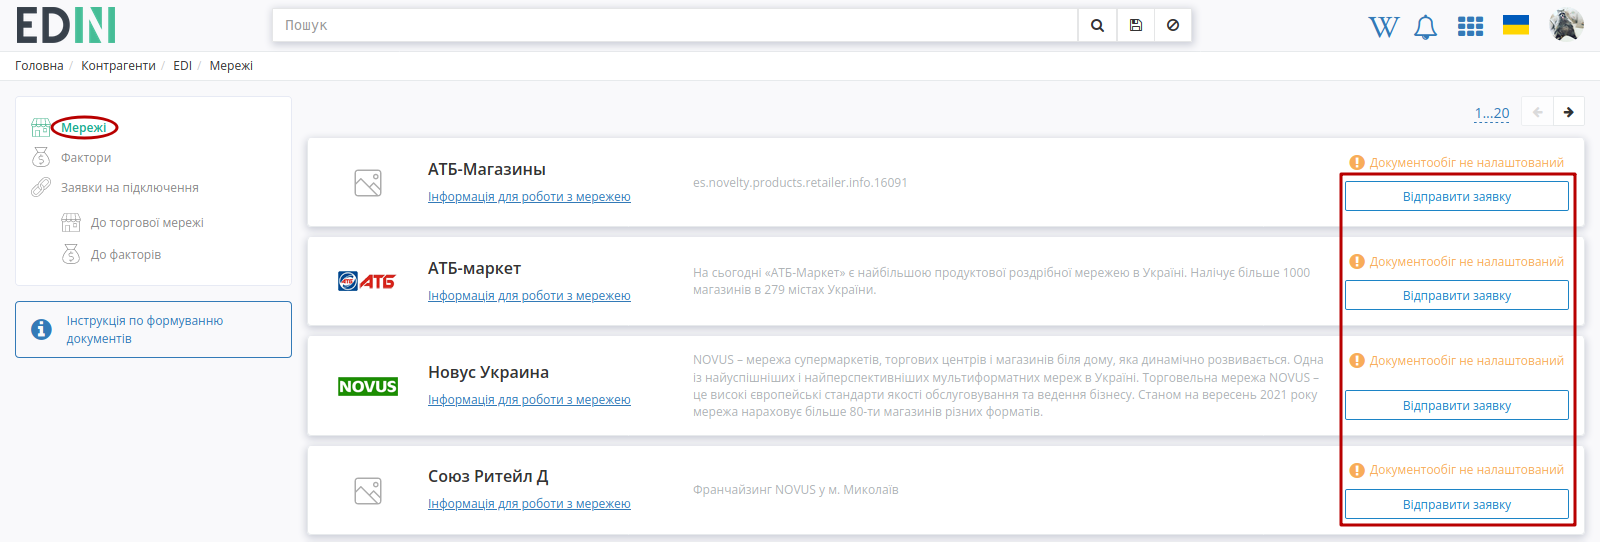
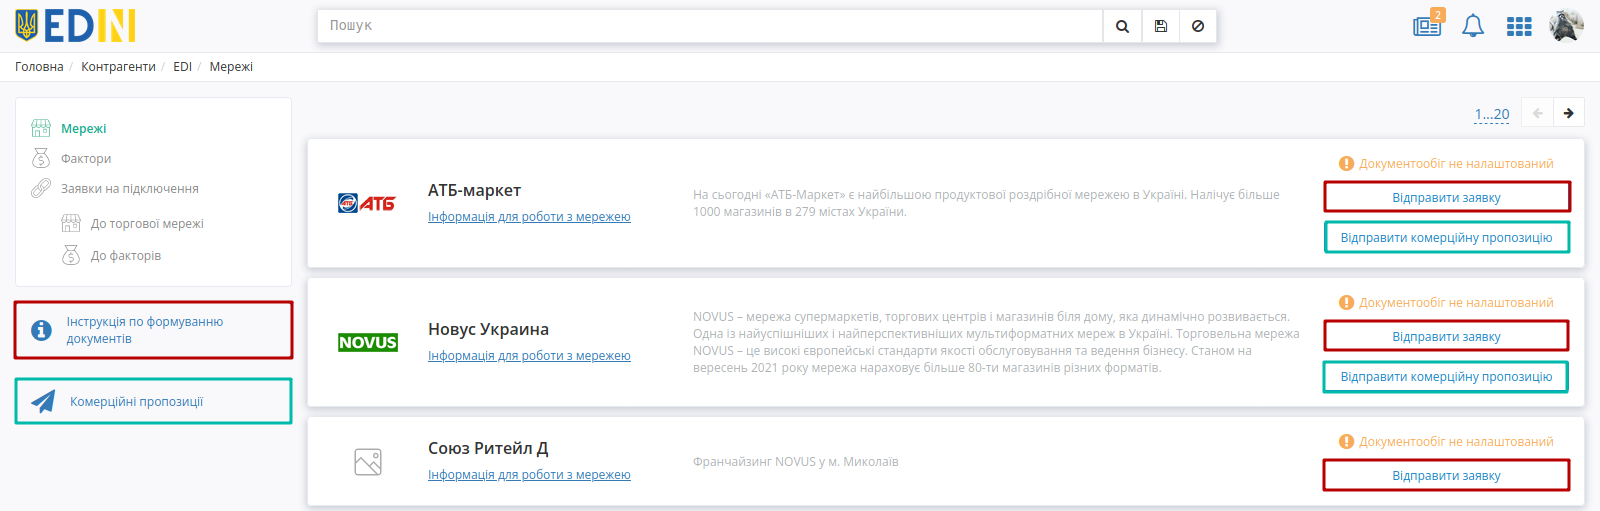
EDIN2-2780

diff --git a/docs/Personal_Cabinet/PCInstruction.rst b/docs/Personal_Cabinet/PCInstruction.rst
@@ -1336,17 +1336,21 @@ WEB-платформа завжди нагадає, якщо у Вас є нео
 .. image:: pics_PCInstruction/PCInstruction_149.png
    :align: center
 
-В списку відображається назва мережі, логотип, додаткова інформація, статус документообігу та кнопки **"Інформація для роботи з мережею"** та **"Відправити заявку"** (формування запиту на підключення):
+В списку відображається назва мережі, логотип, додаткова інформація, статус документообігу та:
+
+* функціонал формування запиту на підключення - **"Відправити заявку"** (додатково є **"Інструкції по формуванню документів"**);
+* функціонал відправки комерційних пропозицій - **"Відправити комерційну пропозицію"** (до сервісу можливо перейти за допомогою одноїменної з сервісом кнопки **"Комерційні пропозиції"**);
 
 .. image:: pics_PCInstruction/PCInstruction_150.png
    :align: center
 
-В картці мережі відображається контактна інформація, список підключених документів та сервісів:
+.. note::
+   Функціонал створення комерційної пропозиції доступний лише при ввімкненому `доступу <https://wiki.edin.ua/uk/latest/Personal_Cabinet/PCInstruction.html#user-roles>`__ до сервісу **"Комерційна пропозиція"**!
+
+Ці ж дії можливо виконати і в картці мережі. В картці мережі відображається контактна інформація, список підключених документів та сервісів:
 
 .. image:: pics_PCInstruction/PCInstruction_160.png
    :align: center
-
-При перегляді даних по мережі також можливо подати **"Заявку на підключення"** за допомогою одноіменної кнопки. 
 
 **3.1.2.1 Формування запиту на підключення до мережі**
 """"""""""""""""""""""""""""""""""""""""""""""""""""""""""""""
